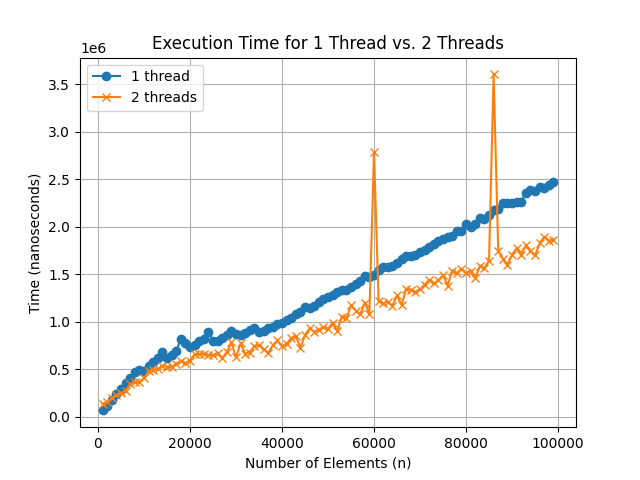
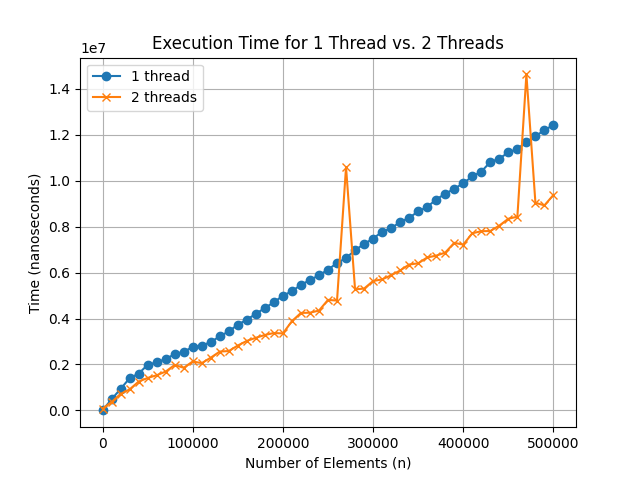
PA 2 final

diff --git a/Program2_Stack/mainVersion1.cpp b/Program2_Stack/mainVersion1.cpp
@@ -7,7 +7,6 @@ using namespace std;
 using namespace std::chrono;
 
 Stack s = Stack();
-int N = 1000;
 
 void oneThreadVersion1(int n)
 {
@@ -20,7 +19,7 @@ void oneThreadVersion1(int n)
 void *threadFunction1(void *arg)
 {
     int thread_id = *((int *)arg);
-    int n = *((int *)arg); // Extract n from the argument
+    int n = *((int *)arg);
     for (int i = 1; i <= n; i += 2)
     {
         s.pushFront(i);
@@ -30,7 +29,7 @@ void *threadFunction1(void *arg)
 
 void *threadFunction2(void *arg)
 {
-    int n = *((int *)arg); // Extract n from the argument
+    int n = *((int *)arg);
     for (int i = 2; i <= n; i += 2)
     {
         s.pushFront(i);
@@ -98,6 +97,8 @@ void accuracyTest(int numElementsPushed, int numTimesTested)
 
     double twoThreadsAcc = ((1.0 * numCorrect2Threads) / (1.0 * numTimesTested)) * 100.0;
     cout << "Accuracy for 2 threads: " << twoThreadsAcc << "%" << endl;
+
+    s = Stack();
 }
 
 void timeTestForGraph()
@@ -111,19 +112,18 @@ void timeTestForGraph()
     }
     else
     {
-        for (int n = 1000; n <= 1000; n += 50)
+        for (int n = 0; n <= 500000; n += 10000)
         {
 
             s = Stack();
 
-            auto start = high_resolution_clock::now();
+            std::chrono::high_resolution_clock::time_point start = high_resolution_clock::now();
 
             oneThreadVersion1(n);
 
-            auto stop = high_resolution_clock::now();
-            auto duration = duration_cast<nanoseconds>(stop - start);
+            std::chrono::high_resolution_clock::time_point stop = high_resolution_clock::now();
+            std::chrono::nanoseconds duration = std::chrono::duration_cast<std::chrono::nanoseconds>(stop - start);
 
-            // Write the data to the text file
             dataFile << duration.count();
 
             s = Stack();
@@ -135,16 +135,15 @@ void timeTestForGraph()
             stop = high_resolution_clock::now();
             duration = duration_cast<nanoseconds>(stop - start);
 
-            // s.printAllNodes();
-            // Append the data to the same text file
             dataFile << ", " << duration.count();
 
             dataFile << ", " << n << endl;
         }
     }
 
-    // Close the text file
     dataFile.close();
+
+    s = Stack();
 }
 
 void timeTest(int numElementsPushed)
@@ -152,12 +151,12 @@ void timeTest(int numElementsPushed)
 
     s = Stack();
 
-    auto start = high_resolution_clock::now();
+    std::chrono::high_resolution_clock::time_point start = high_resolution_clock::now();
 
     oneThreadVersion1(numElementsPushed);
 
-    auto stop = high_resolution_clock::now();
-    auto duration = duration_cast<nanoseconds>(stop - start);
+    std::chrono::high_resolution_clock::time_point stop = high_resolution_clock::now();
+    std::chrono::nanoseconds duration = std::chrono::duration_cast<std::chrono::nanoseconds>(stop - start);
 
     cout << "Duration for 1 threads pushing " << numElementsPushed << ": " << duration.count() << " nanoseconds" << endl;
     // s.printAllNodes();
@@ -171,16 +170,21 @@ void timeTest(int numElementsPushed)
     duration = duration_cast<nanoseconds>(stop - start);
     cout << "Duration for 2 threads pushing " << numElementsPushed << ": " << duration.count() << " nanoseconds" << endl;
     // s.printAllNodes();
+
+    s = Stack();
 }
 
 int main()
 {
 
-    int numElementsPushed = 10500000;
-    int numTimesTestedForAccuracy = 1;
-    accuracyTest(numElementsPushed, numTimesTestedForAccuracy);
-    timeTest(numElementsPushed);
+    s = Stack();
 
-    // timeTestForGraph();
+    int numElementsPushed = 10500000;
+    // int numElementsPushed = 100;
+    int numTimesTestedForAccuracy = 10;
+    // accuracyTest(numElementsPushed, numTimesTestedForAccuracy);
+    // timeTest(numElementsPushed);
+
+    timeTestForGraph();
     return 0;
 }

diff --git a/Program2_Stack/version3/mainVersion3.cpp b/Program2_Stack/version3/mainVersion3.cpp
@@ -152,7 +152,7 @@ void accuracyTest(int numElementsPushed, int numTimesTested)
 void timeTestForGraph()
 {
     // Open a text file for writing the data
-    ofstream dataFile("data.txt");
+    ofstream dataFile("data3.txt");
 
     if (!dataFile.is_open())
     {
@@ -160,7 +160,7 @@ void timeTestForGraph()
     }
     else
     {
-        for (int n = 1000; n <= 1000; n += 50)
+        for (int n = 10500000; n <= 105000000; n += 10000000)
         {
 
             auto start = high_resolution_clock::now();
@@ -209,10 +209,11 @@ void timeTest(int numElementsPushed)
 int main()
 {
 
-    int numElementsPushed = 10500000;
-    int numTimesTestedForAccuracy = 1;
-    accuracyTest(numElementsPushed, numTimesTestedForAccuracy);
-    timeTest(numElementsPushed);
+    // int numElementsPushed = 10500000;
+    // int numTimesTestedForAccuracy = 1;
+    // accuracyTest(numElementsPushed, numTimesTestedForAccuracy);
+    // timeTest(numElementsPushed);
+    timeTestForGraph();
 
     // timeTestForGraph();
     return 0;

diff --git a/Program2_Stack/mainVersion2.cpp b/Program2_Stack/mainVersion2.cpp
@@ -118,7 +118,7 @@ void timeTestForGraph()
     }
     else
     {
-        for (int n = 1000; n <= 1000; n += 50)
+        for (int n = 0; n <= 500000; n += 10000)
         {
 
             s = Stack();
@@ -184,11 +184,12 @@ int main()
 
     pthread_mutex_init(&myMutex, nullptr);
 
-    int numElementsPushed = 10500000;
-    int numTimesTestedForAccuracy = 1;
+    int numElementsPushed = 10;
+    int numTimesTestedForAccuracy = 100;
     s = Stack();
     accuracyTest(numElementsPushed, numTimesTestedForAccuracy);
     timeTest(numElementsPushed);
+    timeTestForGraph();
 
     // timeTestForGraph();
     return 0;

diff --git a/Program2_Stack/version3/graphScript.py b/Program2_Stack/version3/graphScript.py
@@ -1,6 +1,6 @@
 import matplotlib.pyplot as plt
 
-data_file = "data.txt"
+data_file = "/Users/rayyanzaid/Desktop/CS142/Program2_Stack/version3/data3.txt"
 
 n_values = []
 time_1_thread = []
@@ -24,7 +24,7 @@ plt.legend()
 plt.grid(True)
 
 # Save the plot to a file before displaying it
-plt.savefig("version3TimeComparison1.png")
+plt.savefig("version3TimeComparisonNOO.png")
 
 # Display the plot
 plt.show()

diff --git a/Program2_Stack/graphScript.py b/Program2_Stack/graphScript.py
@@ -24,7 +24,7 @@ plt.legend()
 plt.grid(True)
 
 # Save the plot to a file before displaying it
-plt.savefig("version2TimeComparison.png")
+plt.savefig("version2TimingComparison.png")
 
 # Display the plot
 plt.show()
